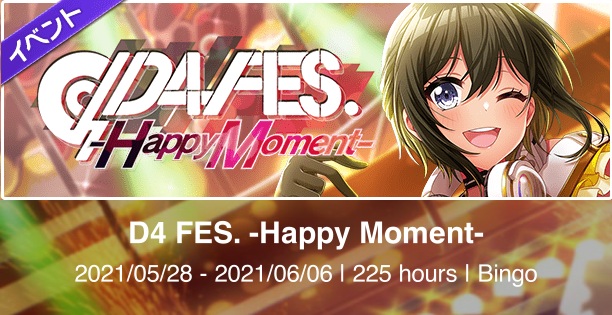
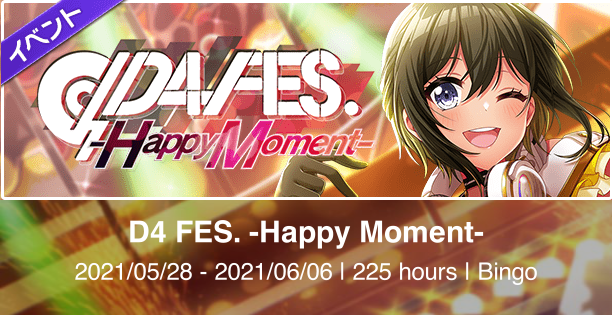
Towa update update

diff --git a/scripts/generateEventBanner.ts b/scripts/generateEventBanner.ts
@@ -41,7 +41,7 @@ export const generateEventBanner = async (event: Event) => {
   ctx.fillText(
     text,
     getCenter([0, textSize.width], [0, width]),
-    mt + imgHeight + textSize.emHeightAscent + 20
+    mt + imgHeight + textSize.actualBoundingBoxAscent + 20
   );
   const desc = `${DateTime.fromISO(event.startdate)
     .setZone("Asia/Tokyo")
@@ -58,7 +58,12 @@ export const generateEventBanner = async (event: Event) => {
   ctx.fillText(
     desc,
     getCenter([0, descSize.width], [0, width]),
-    mt + imgHeight + textSize.emHeightAscent + 20 + descSize.emHeightAscent + 20
+    mt +
+      imgHeight +
+      textSize.actualBoundingBoxAscent +
+      20 +
+      descSize.actualBoundingBoxAscent +
+      20
   );
   return canvas.createPNGStream();
 };
